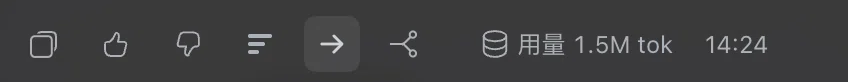
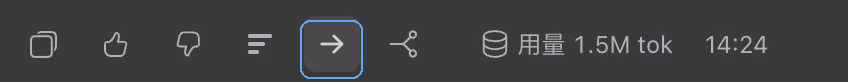
README: add screenshots of the panel and the reply action

Changed region(s): [[0.3373, 0.9268, 0.4292, 0.9756], [0.3373, 0.2439, 0.4292, 0.2927]]

diff --git a/README.md b/README.md
@@ -4,7 +4,11 @@ A right-Sidebar **reading board** for DeepSeek Harness. Pin one of the assistant
 
 ## Screenshots
 
-The entry point — the arrow action in the row under a finished reply (the label appears on hover):
+A reply pinned on the right, rendered as Markdown beside the conversation — heading, numbered steps, a blockquote, a table and a labelled code block, with the card's own controls under it:
+
+![The reading board with a pinned reply rendered as Markdown](assets/panel.png)
+
+The entry point — the arrow action in the row under a finished reply (its label appears on hover, laid out like the row's other icon buttons):
 
 ![The reading-board action in a finished reply's action row](assets/action-row.png)
 
